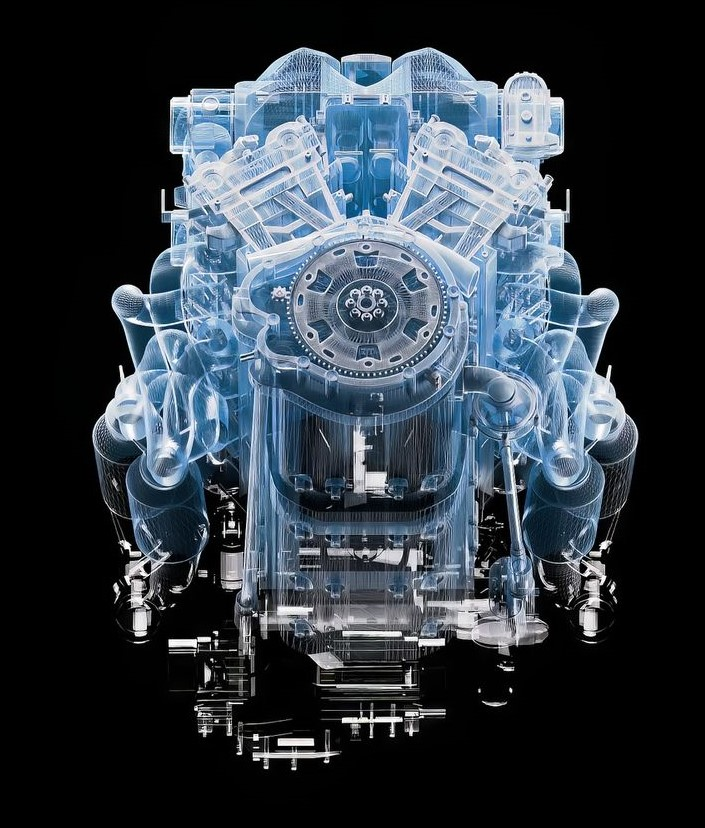
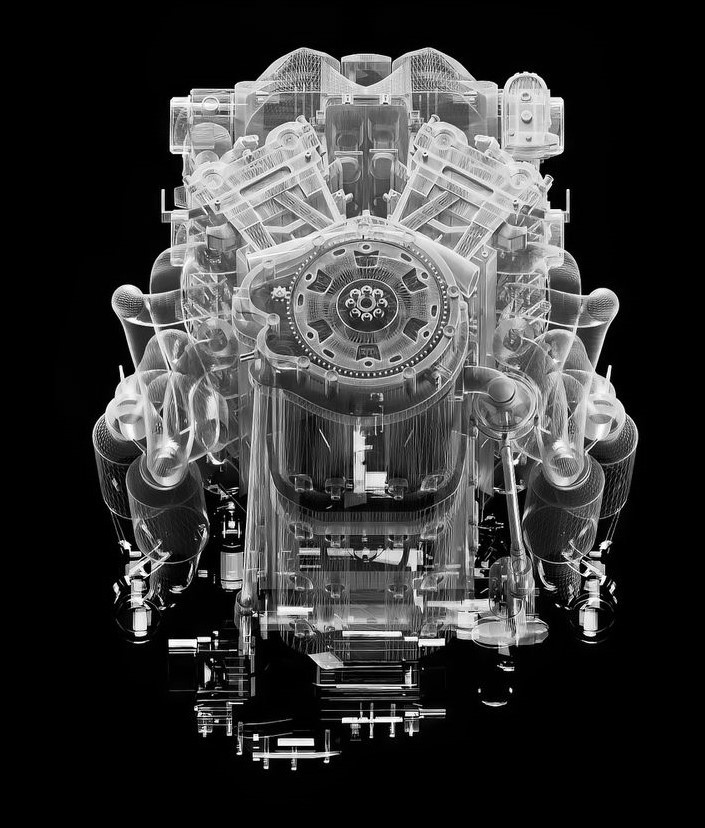
commit

diff --git a/obsidianos/src/components/ContactUs.tsx b/obsidianos/src/components/ContactUs.tsx
@@ -1,6 +1,6 @@
 import { useState } from 'react';
 import { motion } from 'framer-motion';
-import { MapPin, Phone, Mail, Download, ArrowRight, Loader2 } from 'lucide-react';
+import { MapPin, Phone, Mail, Download, ArrowRight, Loader2, ChevronDown } from 'lucide-react';
 
 const ContactUs = () => {
   const [formData, setFormData] = useState({
@@ -142,35 +142,50 @@ const ContactUs = () => {
               <div className="grid grid-cols-1 md:grid-cols-2 gap-6">
                 <div className="flex flex-col gap-2">
                   <label className="text-[10px] md:text-xs font-bold tracking-widest text-muted-foreground uppercase">COUNTRY / REGION</label>
-                  <select name="region" value={formData.region} onChange={handleChange} className="bg-background/50 border border-border/50 rounded-lg px-4 py-3.5 text-sm text-muted-foreground focus:outline-none focus:border-[#60A5FA]/50 transition-colors appearance-none cursor-pointer">
-                    <option value="">Select market</option>
-                    <option value="in">India</option>
-                    <option value="af">Africa</option>
-                    <option value="other">Other</option>
-                  </select>
+                  <div className="relative">
+                    <select name="region" value={formData.region} onChange={handleChange} className="w-full bg-background/50 border border-border/50 rounded-lg px-4 py-3.5 text-sm text-foreground focus:outline-none focus:border-[#60A5FA]/50 transition-colors appearance-none cursor-pointer">
+                      <option value="" className="bg-[#1C1A19] text-muted-foreground">Select market</option>
+                      <option value="in" className="bg-[#1C1A19] text-foreground">India</option>
+                      <option value="af" className="bg-[#1C1A19] text-foreground">Africa</option>
+                      <option value="other" className="bg-[#1C1A19] text-foreground">Other</option>
+                    </select>
+                    <div className="absolute inset-y-0 right-0 flex items-center pr-4 pointer-events-none">
+                      <ChevronDown className="w-4 h-4 text-muted-foreground" />
+                    </div>
+                  </div>
                 </div>
                 <div className="flex flex-col gap-2">
                   <label className="text-[10px] md:text-xs font-bold tracking-widest text-muted-foreground uppercase">PARTNER TIER</label>
-                  <select name="tier" value={formData.tier} onChange={handleChange} className="bg-background/50 border border-border/50 rounded-lg px-4 py-3.5 text-sm text-muted-foreground focus:outline-none focus:border-[#60A5FA]/50 transition-colors appearance-none cursor-pointer">
-                    <option value="">Select tier</option>
-                    <option value="retailer">Retailer (10-50 units)</option>
-                    <option value="distributor">Distributor (50-200 units)</option>
-                    <option value="wholesaler">Wholesaler (200+ units)</option>
-                  </select>
+                  <div className="relative">
+                    <select name="tier" value={formData.tier} onChange={handleChange} className="w-full bg-background/50 border border-border/50 rounded-lg px-4 py-3.5 text-sm text-foreground focus:outline-none focus:border-[#60A5FA]/50 transition-colors appearance-none cursor-pointer">
+                      <option value="" className="bg-[#1C1A19] text-muted-foreground">Select tier</option>
+                      <option value="retailer" className="bg-[#1C1A19] text-foreground">Retailer (10-50 units)</option>
+                      <option value="distributor" className="bg-[#1C1A19] text-foreground">Distributor (50-200 units)</option>
+                      <option value="wholesaler" className="bg-[#1C1A19] text-foreground">Wholesaler (200+ units)</option>
+                    </select>
+                    <div className="absolute inset-y-0 right-0 flex items-center pr-4 pointer-events-none">
+                      <ChevronDown className="w-4 h-4 text-muted-foreground" />
+                    </div>
+                  </div>
                 </div>
               </div>
 
               <div className="flex flex-col gap-2">
                 <label className="text-[10px] md:text-xs font-bold tracking-widest text-muted-foreground uppercase">PRODUCTS OF INTEREST</label>
-                <select name="products" value={formData.products} onChange={handleChange} className="bg-background/50 border border-border/50 rounded-lg px-4 py-3.5 text-sm text-muted-foreground focus:outline-none focus:border-[#60A5FA]/50 transition-colors appearance-none cursor-pointer">
-                  <option value="">Select category</option>
-                  <option value="engine">Engine Mountings</option>
-                  <option value="fuel">Fuel Pumps</option>
-                  <option value="cooling">Cooling & Water Pumps</option>
-                  <option value="suspension">Suspension & Struts</option>
-                  <option value="braking">Braking & Body</option>
-                  <option value="all">Full Catalogue</option>
-                </select>
+                <div className="relative">
+                  <select name="products" value={formData.products} onChange={handleChange} className="w-full bg-background/50 border border-border/50 rounded-lg px-4 py-3.5 text-sm text-foreground focus:outline-none focus:border-[#60A5FA]/50 transition-colors appearance-none cursor-pointer">
+                    <option value="" className="bg-[#1C1A19] text-muted-foreground">Select category</option>
+                    <option value="engine" className="bg-[#1C1A19] text-foreground">Engine Mountings</option>
+                    <option value="fuel" className="bg-[#1C1A19] text-foreground">Fuel Pumps</option>
+                    <option value="cooling" className="bg-[#1C1A19] text-foreground">Cooling & Water Pumps</option>
+                    <option value="suspension" className="bg-[#1C1A19] text-foreground">Suspension & Struts</option>
+                    <option value="braking" className="bg-[#1C1A19] text-foreground">Braking & Body</option>
+                    <option value="all" className="bg-[#1C1A19] text-foreground">Full Catalogue</option>
+                  </select>
+                  <div className="absolute inset-y-0 right-0 flex items-center pr-4 pointer-events-none">
+                    <ChevronDown className="w-4 h-4 text-muted-foreground" />
+                  </div>
+                </div>
               </div>
 
               <div className="flex flex-col gap-2">

diff --git a/obsidianos/server/index.js b/obsidianos/server/index.js
@@ -166,9 +166,13 @@ app.post('/api/catalogue', async (req, res) => {
   }
 });
 
-app.listen(PORT, () => {
-  console.log(`Backend server running on port ${PORT}`);
-});
+if (!process.env.VERCEL) {
+  app.listen(PORT, () => {
+    console.log(`Backend server running on port ${PORT}`);
+  });
 
-// Force the event loop to stay alive
-setInterval(() => {}, 60000);
+  // Force the event loop to stay alive
+  setInterval(() => {}, 60000);
+}
+
+export default app;

diff --git a/obsidianos/src/components/Offerings.tsx b/obsidianos/src/components/Offerings.tsx
@@ -5,8 +5,8 @@ const Offerings = () => {
 
 
   return (
-    <section className="w-full pt-20 px-6 md:px-10 max-w-[100vw] mx-auto flex flex-col items-center">
-      <div className="text-center max-w-3xl mb-16 md:mb-24">
+    <section className="w-full pt-20 md:px-10 max-w-[100vw] mx-auto flex flex-col items-center">
+      <div className="text-center px-[20%] mb-16 md:mb-24">
         <motion.h2
           initial={{ opacity: 0, y: 20 }}
           whileInView={{ opacity: 1, y: 0 }}
@@ -24,7 +24,7 @@ const Offerings = () => {
           className="text-body-default md:text-body-large text-muted"
         >
           Kelpro is the manufacturing brand of Kapoor Auto Spares, a family-run wholesale auto parts business operating out of <span className="text-[#F7E7CE] font-semibold">Kashmere Gate, Delhi since 1996</span> one of India's oldest auto parts hubs.
-          <br />
+          <br /><br />
           We supply a comprehensive range of engine, cooling, suspension and braking components to retailers, distributors and wholesalers across India and African markets. Every part is built to OEM standards with rigorous quality checks.
         </motion.p>
       </div>

diff --git a/obsidianos/src/components/Footer.tsx b/obsidianos/src/components/Footer.tsx
@@ -5,7 +5,7 @@ const Footer = () => {
   return (
     <footer className="w-full bg-[#0A0A0A] border-t border-border pt-20 pb-10 px-6 md:px-10">
       <div className="max-w-[1512px] mx-auto flex flex-col md:flex-row justify-between gap-16 md:gap-8 pb-16">
-        
+
         {/* Left Section: Branding and Contact */}
         <div className="flex flex-col gap-8 max-w-[600px]">
           <div className="flex items-center gap-3">
@@ -14,7 +14,7 @@ const Footer = () => {
               KELPRO <span className="text-[#60A5FA]">AUTO SPARES</span>
             </span>
           </div>
-          
+
           <div className="flex flex-col gap-4 text-xs text-muted-foreground leading-relaxed">
             <p className="text-sm">
               A brand of Kapoor Auto Spares. Wholesale auto parts supplier operating from Kashmere Gate, Delhi since 1996. B2B only — retailers, distributors and wholesalers welcome.
@@ -53,7 +53,6 @@ const Footer = () => {
           <div className="flex flex-col gap-4">
             <h4 className="text-muted-foreground font-bold text-xs tracking-widest uppercase mb-2">Company</h4>
             <Link to="/#products" className="text-muted hover:text-foreground text-sm transition-colors">About Us</Link>
-            <Link to="/#pricing" className="text-muted hover:text-foreground text-sm transition-colors">Partner Tiers</Link>
             <Link to="/#markets" className="text-muted hover:text-foreground text-sm transition-colors">Markets</Link>
             <Link to="/#contact" className="text-muted hover:text-foreground text-sm transition-colors">Contact</Link>
             <a href="/Kelpro Catalogue 2026.pdf" download className="text-muted hover:text-foreground text-sm transition-colors">Download Catalogue</a>

diff --git a/obsidianos/src/components/TrustCards.tsx b/obsidianos/src/components/TrustCards.tsx
@@ -11,7 +11,7 @@ const TrustCards = () => {
     {
       icon: <Layers className="w-8 h-8 text-[#F7E7CE]" />,
       title: "TRANSPARENT TIERED PRICING",
-      desc: "Clear tier pricing — retailer, distributor, wholesaler — with up to 35%+ off MRP for high-volume partners."
+      desc: "Clear tier pricing retailer, distributor, wholesaler with up to 35%+ off MRP for high-volume partners."
     },
     {
       icon: <Globe className="w-8 h-8 text-[#F7E7CE]" />,
@@ -31,7 +31,7 @@ const TrustCards = () => {
     {
       icon: <Users className="w-8 h-8 text-[#F7E7CE]" />,
       title: "28+ YEARS OF TRUST",
-      desc: "Kapoor Auto Spares has operated from Kashmere Gate, Delhi since 1996 — one of India's most trusted auto parts hubs."
+      desc: "Kapoor Auto Spares has operated from Kashmere Gate, Delhi since 1996 one of India's most trusted auto parts hubs."
     }
   ];
 

diff --git a/obsidianos/src/components/Hero.tsx b/obsidianos/src/components/Hero.tsx
@@ -46,7 +46,7 @@ const Hero = () => {
           transition={{ duration: 0.8, delay: 0.2, ease: "easeOut" }}
           className="max-w-[50%] text-sm md:text-base text-white/90 drop-shadow-[0_0_8px_rgba(255,255,255,0.5)] mb-10"
         >
-          A brand of Kapoor Auto Spares. Engine Mountings, Strut Mounts, Fuel Pumps, Water Pumps, Bushing Kits, Gaskets & more — supplied to retailers, distributors and wholesalers since 1996.
+          A brand of Kapoor Auto Spares. Engine Mountings, Strut Mounts, Fuel Pumps, Water Pumps, Bushing Kits, Gaskets & more supplied to retailers, distributors and wholesalers since 1996.
         </motion.p>
 
         <motion.a

diff --git a/obsidianos/src/components/Navbar.tsx b/obsidianos/src/components/Navbar.tsx
@@ -19,7 +19,6 @@ const Navbar = () => {
   const navLinks: { name: string; to?: string; dropdown?: any[] }[] = [
     { name: 'Products', to: "#products" },
     { name: 'Catalogue', to: "#catalogue" },
-    { name: 'Tiers', to: '#pricing' },
     { name: 'Markets', to: "#markets" },
     { name: 'Contact', to: "#contact" }
   ];

diff --git a/obsidianos/src/pages/AiCrm.tsx b/obsidianos/src/pages/AiCrm.tsx
@@ -134,6 +134,7 @@ const AiCrm = () => {
               initial={{ opacity: 0, y: 10 }}
               animate={{ opacity: 1, y: 0 }}
               transition={{ duration: 0.5, delay: 0.9 }}
+              onClick={() => { document.location = "#contact" }}
               className="bg-primary text-primary-foreground hover:bg-primary/90 h-12 px-8 rounded-full text-base font-semibold transition-colors"
             >
               Request Partnership